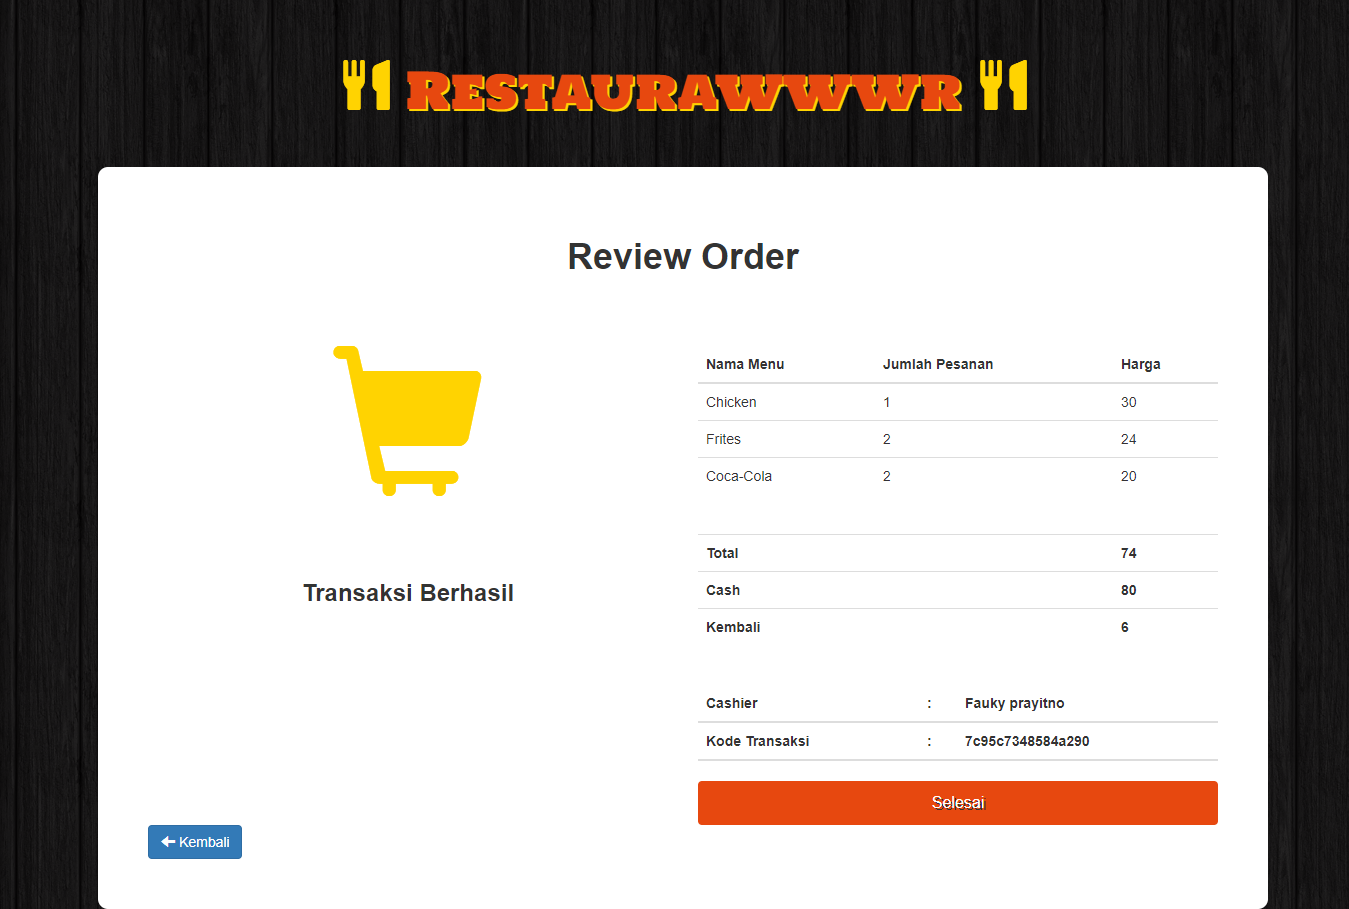
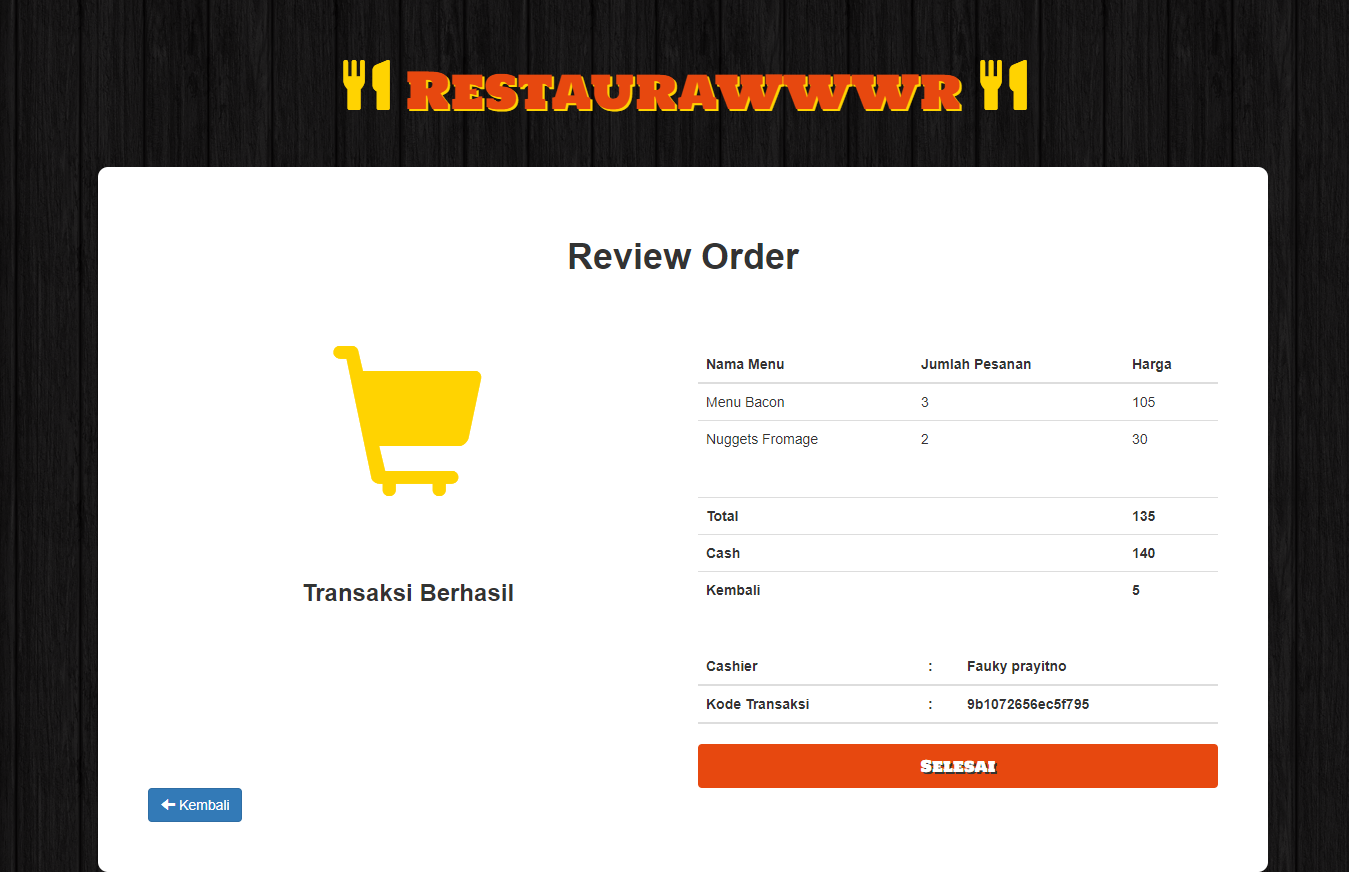
added transaction reports

diff --git a/admin/shop_history.php b/admin/shop_history.php
@@ -1,0 +1,93 @@
+<?php include 'check_admin.php'; check_admin();?>
+<?php
+
+    $ref = '';
+
+    if(!empty($_GET['ref'])) 
+    {
+        $ref = checkInput($_GET['ref']);
+    }
+
+    function checkInput($data) 
+    {
+      $data = trim($data);
+      $data = stripslashes($data);
+      $data = htmlspecialchars($data);
+      return $data;
+    }
+
+    function getRefId($x)
+    {
+        $db = Database::connect();
+        $statement = $db->prepare("SELECT * FROM transaction WHERE transaction.ref = ?");
+        $statement->execute(array($x));
+        $data = $statement->fetch();
+        Database::disconnect();
+        return $data['id'];
+    }
+
+
+    function get_details($data){
+    $str='';
+    $db = Database::connect();
+    $statement = $db->query("SELECT items.name, items.id, cart.count FROM cart INNER JOIN items on cart.item = items.id WHERE cart.transaction = ".$data);
+    // $statement->execute(array($data));
+    $str.='<table class="table">
+    <thead>
+        <tr>
+            <th>Nama Menu</th>
+            <th>Jumlah</th>
+        </tr>
+    </thead>
+    <tbody>
+    
+    ';
+    while($item = $statement->fetch()){
+        $str.=' <tr>
+                    <td><a href="view.php?id='.$item['id'].'">'.$item['name'].'</a></td>
+                    <td>'.$item['count'].'</td>
+                </tr>
+        ';
+
+    }
+    Database::disconnect();
+    $str.='</tbody>
+    </table>
+    ';
+    return $str;
+    }
+
+
+?>
+
+<!DOCTYPE html>
+<html>
+    <head>
+        <title>Restaurawwwr</title>
+        <meta charset="utf-8"/>
+        <meta name="viewport" content="width=device-width, initial-scale=1">
+        <script src="https://ajax.googleapis.com/ajax/libs/jquery/1.11.3/jquery.min.js"></script>
+        <link rel="stylesheet" href="https://maxcdn.bootstrapcdn.com/bootstrap/3.3.6/css/bootstrap.min.css">
+        <script src="https://maxcdn.bootstrapcdn.com/bootstrap/3.3.6/js/bootstrap.min.js"></script>
+        <link href='http://fonts.googleapis.com/css?family=Holtwood+One+SC' rel='stylesheet' type='text/css'>
+        <link rel="stylesheet" href="../css/styles.css">
+    </head>
+    
+    <body>
+        <h1 class="text-logo"><span class="glyphicon glyphicon-cutlery"></span> Restaurawwwr <span class="glyphicon glyphicon-cutlery"></span></h1>
+         <div class="container admin">
+            <div class="row">
+                    <h1><strong>Order History</strong></h1>
+                    <br>
+                    <div class="table-responsive">
+                    <?php echo get_details(getRefId($ref));?>
+                    <br>
+                    </div>
+                    <div class="form-actions">
+                      <a class="btn btn-primary" href="report.php"><span class="glyphicon glyphicon-arrow-left"></span> Kembali</a>
+                    </div>
+            </div>
+        </div>   
+    </body>
+</html>
+

diff --git a/admin/report.php b/admin/report.php
@@ -1,0 +1,77 @@
+<?php include 'check_admin.php'; check_admin();?>
+<?php
+
+
+    function get_transaction(){
+    $str='';
+    $db = Database::connect();
+    $statement = $db->query("SELECT transaction.ref as ref, transaction.date as date, transaction.total as total,
+                            transaction.cash as cash, transaction.cash_change as cc, user.name as cashier 
+                             FROM transaction INNER JOIN user on transaction.cashier = user.id");
+    $str.='<table class="table">
+    <thead>
+        <tr>
+            <th>Code Transaksi</th>
+            <th>Waktu Transaksi</th>
+            <th>Total Belaja</th>
+            <th>Cash Dibayarkan</th>
+            <th>Kembalian</th>
+            <th>Nama Kasir</th>
+        </tr>
+    </thead>
+    <tbody>
+    
+    ';
+    while($item = $statement->fetch()){
+        $str.=' <tr>
+                    <td><a href="shop_history.php?ref='.$item['ref'].'">'.$item['ref'].'</a></td>
+                    <td>'.$item['date'].'</td>
+                    <td>'.$item['total'].'</td>
+                    <td>'.$item['cash'].'</td>
+                    <td>'.$item['cc'].'</td>
+                    <td>'.$item['cashier'].'</td>
+                </tr>
+        ';
+
+    }
+    Database::disconnect();
+    $str.='</tbody>
+    </table>
+    ';
+    return $str;
+    }
+
+
+?>
+
+<!DOCTYPE html>
+<html>
+    <head>
+        <title>Restaurawwwr</title>
+        <meta charset="utf-8"/>
+        <meta name="viewport" content="width=device-width, initial-scale=1">
+        <script src="https://ajax.googleapis.com/ajax/libs/jquery/1.11.3/jquery.min.js"></script>
+        <link rel="stylesheet" href="https://maxcdn.bootstrapcdn.com/bootstrap/3.3.6/css/bootstrap.min.css">
+        <script src="https://maxcdn.bootstrapcdn.com/bootstrap/3.3.6/js/bootstrap.min.js"></script>
+        <link href='http://fonts.googleapis.com/css?family=Holtwood+One+SC' rel='stylesheet' type='text/css'>
+        <link rel="stylesheet" href="../css/styles.css">
+    </head>
+    
+    <body>
+        <h1 class="text-logo"><span class="glyphicon glyphicon-cutlery"></span> Restaurawwwr <span class="glyphicon glyphicon-cutlery"></span></h1>
+         <div class="container admin">
+            <div class="row">
+                    <h1><strong>Transaction Reports</strong></h1>
+                    <br>
+                    <div class="table-responsive">
+                    <?php echo get_transaction();?>
+                    <br>
+                    </div>
+                    <div class="form-actions">
+                      <a class="btn btn-primary" href="index.php"><span class="glyphicon glyphicon-arrow-left"></span> Kembali</a>
+                    </div>
+            </div>
+        </div>   
+    </body>
+</html>
+

diff --git a/register.php b/register.php
@@ -12,7 +12,7 @@
     }
     Database::disconnect();
 
-    $nameError = $usernameError = $pwdError = $pwd2Error = $statusError = $name = $username = $pwd = $status = $pwd2 = "";
+    $nameError = $usernameError = $pwdError = $pwd2Error  = $name = $username = $pwd = $pwd2 = "";
 
     if(!empty($_POST)) 
     {
@@ -20,7 +20,6 @@
         $username        = checkInput($_POST['username']);
         $pwd              = checkInput($_POST['pwd']);
         $pwd2              = checkInput($_POST['pwd2']);
-        $status           = checkInput($_POST['status']); 
         $isSuccess          = true;
 
         
@@ -48,11 +47,7 @@
             $pwd2Error = 'Field tidak boleh kosong';
             $isSuccess = false;
         } 
-        if(empty($status)) 
-        {
-            $statusError = 'Field tidak boleh kosong';
-            $isSuccess = false;
-        }
+
         if($pwd != $pwd2){
             $pwd2Error = 'Password tidak sesuai';
             $isSuccess = false;
@@ -75,8 +70,8 @@
         if($isSuccess) 
         {
             $db = Database::connect();
-            $statement = $db->prepare("INSERT INTO user (name,username,password,level) values(?, ?, ?, ?)");
-            $statement->execute(array($name,$username,md5($pwd),$status));
+            $statement = $db->prepare("INSERT INTO user (name,username,password) values(?, ?, ?)");
+            $statement->execute(array($name,$username,md5($pwd)));
             Database::disconnect();
             header("Location: login.php");
         }
@@ -131,20 +126,6 @@
                         <label for="price">Confirm Password:</label>
                         <input type="password" class="form-control" id="pwd2" name="pwd2" placeholder="Confirm Password" value="<?php echo $pwd2;?>">
                         <span class="help-inline"><?php echo $pwd2Error;?></span>
-                    </div>
-                    <div class="form-group">
-                        <label for="category">Status:</label>
-                        <select class="form-control" id="status" name="status">
-                        <?php
-                           $db = Database::connect();
-                           foreach ($db->query('SELECT * FROM user_type') as $row) 
-                           {
-                                echo '<option value="'. $row['id'] .'">'. $row['type'] . '</option>';;
-                           }
-                           Database::disconnect();
-                        ?>
-                        </select>
-                        <span class="help-inline"><?php echo $statusError;?></span>
                     </div>
                     <br>
                     <div class="form-actions">

diff --git a/process.php b/process.php
@@ -34,13 +34,17 @@ if (empty($_POST['cash'])) {
     header('Location: cart.php');
 }
 
-$ff = $_POST['cash'] - $_POST['total'];
+else {
+    $ff = $_POST['cash'] - $_POST['total'];
 
-if ($ff < 0) {
-    $succes = false;
-    $_SESSION['cash_error'] = 'Cash kurang dari total belanja';
-    header('Location: cart.php');
+    if ($ff < 0) {
+        $succes = false;
+        $_SESSION['cash_error'] = 'Cash kurang dari total belanja';
+        header('Location: cart.php');
+    }
 }
+
+
 
 if ($succes) {
     $_SESSION['trans_ref'] = createref();

diff --git a/admin/index.php b/admin/index.php
@@ -18,6 +18,7 @@
             <div class="row">
                 <h1><strong>List item   </strong>
                 <a href="insert.php" class="btn btn-success btn-lg"><span class="glyphicon glyphicon-plus"></span> Tambah</a>
+                <a href="report.php" class="btn btn-warning btn-lg"><span class="glyphicon glyphicon-th-list"></span> Report</a>
                 <a href="../index.php" class="btn btn-primary btn-lg"><span class="glyphicon glyphicon-home"></span> Halaman Awal</a>
 
                 </h1>

diff --git a/cart.php b/cart.php
@@ -201,7 +201,7 @@ if (!isset($_SESSION['username'])) {
     <input type="number" name="cash" id="cash"> <b> K</b><br>
     <span class="help-inline">' . $cashError . '</span>
     </div>
-    <div class="caption">
+    <div class="caption site">
                 <button class="btn btn-order" type="submit"><span class="glyphicon glyphicon-shopping-cart"></span> Order Sekarang </button>
     </div> 
     ';

diff --git a/review.php b/review.php
@@ -114,7 +114,7 @@
                     </tr>
                     </thead>
                     </table>
-                            <a href="index.php" class="btn btn-order" role="button"> Selesai </a>
+                            <a href="index.php" class="btn btn-order site" role="button"> Selesai </a>
                     </div>
 
                 </div>

diff --git a/README.md b/README.md
@@ -1,31 +1,50 @@
 # **Restaurawwwr**
 
-this is just a simple fast food system, 
-the original source is [here](https://github.com/thamoui/burgerCode)
+this is just a simple fast food restaurant system, 
 
+the original source is [here](https://github.com/thamoui/burgerCode).
 
+<hr>
+- added basic *"user"* or employees registration and login
 
+- added cart for ordering menu
 
-# Screenshots
-
-
-
-![](screenshot/shot1.png)
+- added transactions and reports for admin to review
 
 <hr>
 
+
+## Screenshots
+
+
+
+Home Page
 ![](screenshot/shot2.png)
 
 <hr>
 
+Order Page
 ![](screenshot/shot3.png)
 
 <hr>
 
+Cart Page
 ![](screenshot/shot4.png)
 
 <hr>
 
+Review Order Page
 ![](screenshot/shot5.png)
+
+<hr>
+
+Admin Home Page
+![](screenshot/shot1.png)
+
+<hr>
+
+Admin Transaction Reports Page
+![](screenshot/shot6.png)
+
 
 <hr>
